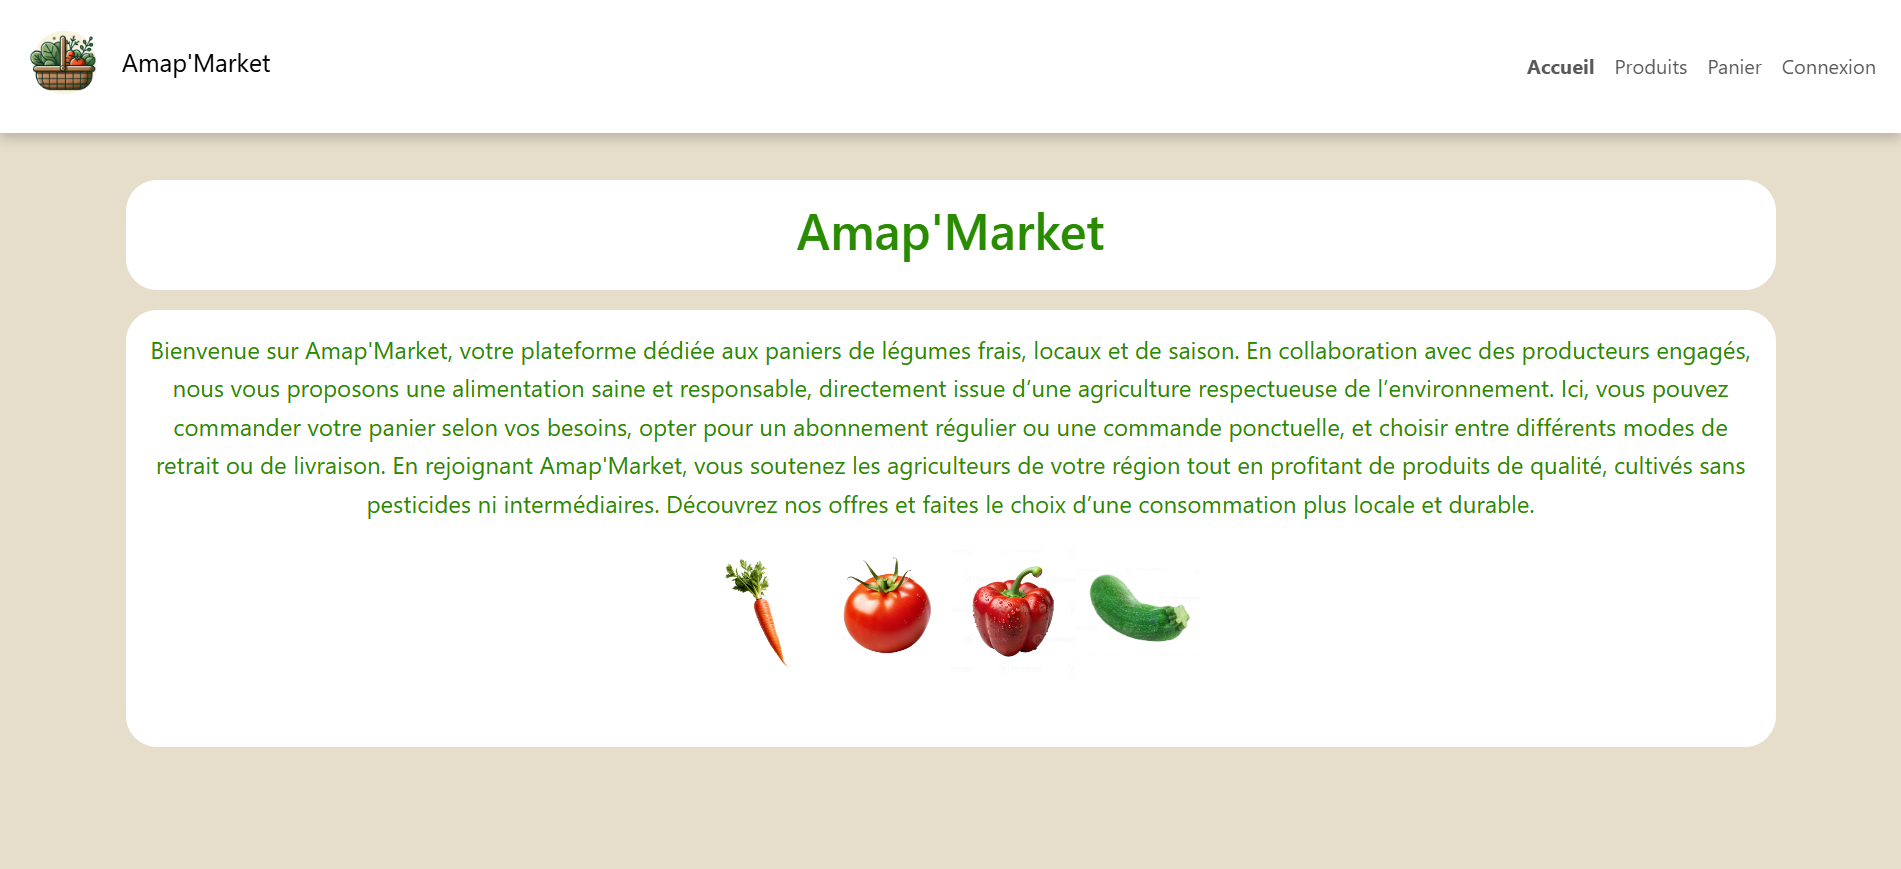
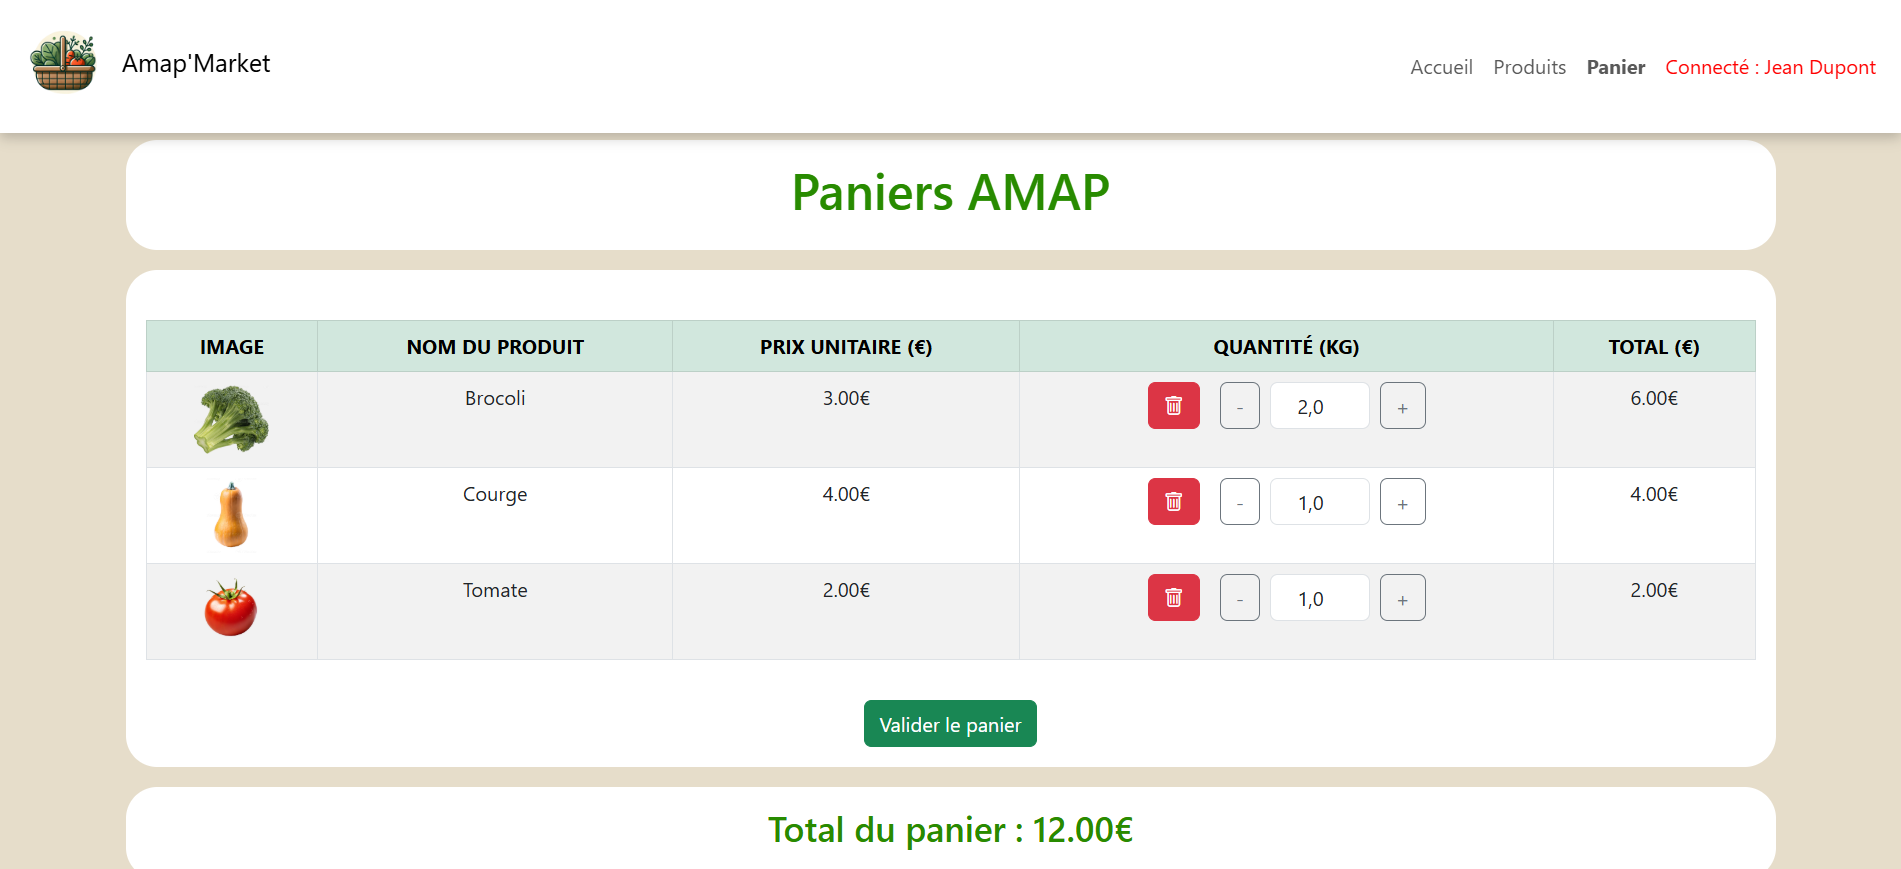
Update Certif

diff --git a/src/css/style.css b/src/css/style.css
@@ -614,7 +614,6 @@ header.sticky {
 
 .certification-content {
     flex-grow: 1;
-    margin-bottom: 20px;
 }
 
 .certification-content p {
@@ -649,12 +648,78 @@ header.sticky {
 }
 
 .certification-actions {
-    text-align: center;
+    margin-top: 20px;
+    display: flex;
+    justify-content: space-between;
+    align-items: center;
+    gap: 15px;
 }
 
-.btn-small {
+/* Container pour le code de vérification */
+.certification-code-container {
+    flex: 1;
+    min-width: 0; /* Permet au contenu de s'adapter */
+}
+
+.certification-code-label {
+    margin-bottom: 5px;
+    font-size: 0.85rem;
+    color: #666;
+    text-align: left;
+}
+
+.certification-code {
+    display: inline-flex;
+    align-items: center;
+    gap: 8px;
+    padding: 8px 12px;
+    background: #f5f5f5;
+    border: 1px solid #ddd;
+    border-radius: 6px;
+    cursor: pointer;
+    transition: all 0.3s ease;
+    font-family: monospace;
+    font-size: 0.9rem;
+    user-select: none;
+    white-space: nowrap;
+    overflow: hidden;
+    text-overflow: ellipsis;
+}
+
+.certification-code:hover {
+    background: #e8e8e8;
+    border-color: #4CAF50;
+    transform: translateY(-1px);
+}
+
+.certification-code:active {
+    transform: translateY(0);
+    background: #dff0d8;
+}
+
+.certification-code code {
+    font-weight: bold;
+    color: #333;
+    white-space: nowrap;
+    overflow: hidden;
+    text-overflow: ellipsis;
+}
+
+.certification-code .copy-icon {
+    font-size: 0.9rem;
+    opacity: 0.7;
+    flex-shrink: 0;
+}
+
+.certification-code:hover .copy-icon {
+    opacity: 1;
+}
+
+/* Bouton Voir le certificat */
+.certification-actions .btn-small {
     padding: 8px 20px;
     font-size: 0.9rem;
+    flex-shrink: 0;
 }
 
 /* Bouton désactivé */
@@ -674,7 +739,7 @@ header.sticky {
     box-shadow: none !important;
 }
 
-/* Responsive */
+/* Responsive pour la certification */
 @media (max-width: 768px) {
     .certifications-container {
         grid-template-columns: 1fr;
@@ -693,6 +758,34 @@ header.sticky {
     
     .certification-header h3 {
         font-size: 1.2rem;
+    }
+    
+    .certification-actions {
+        flex-direction: column;
+        gap: 10px;
+        align-items: stretch;
+    }
+    
+    .certification-code {
+        justify-content: center;
+        text-align: center;
+    }
+    
+    .certification-code-label {
+        text-align: center;
+    }
+}
+
+/* Pour les très petits écrans */
+@media (max-width: 480px) {
+    .certification-code {
+        padding: 6px 10px;
+        font-size: 0.85rem;
+    }
+    
+    .certification-actions .btn-small {
+        padding: 6px 16px;
+        font-size: 0.85rem;
     }
 }
 

diff --git a/index.html b/index.html
@@ -347,23 +347,32 @@
                             <img src="./src/img/logo-pix.png" alt="Certification PIX" style="width: 40px; height: 40px;">
                         </div>
                         <h3>PIX</h3>
-                        <span class="certification-level">En attente de résultats</span>
+                        <span class="certification-level">Obtenue</span>
                     </div>
                     <div class="certification-content">
-                        <p>Compétences numériques avec 5 niveaux de maîtrise</p>
+                        <p>Certification des compétences numériques avec 5 niveaux de maîtrise</p>
                         <div class="certification-details">
                             <div class="detail-item">
-                                <span class="detail-label">Niveau max:</span>
-                                <span class="detail-value">N/A</span>
+                                <span class="detail-label">Score:</span>
+                                <span class="detail-value">567/895</span>
                             </div>
                             <div class="detail-item">
-                                <span class="detail-label">Epreuve le:</span>
+                                <span class="detail-label">Obtenue le:</span>
                                 <span class="detail-value">9 Décembre 2025</span>
                             </div>
                         </div>
                     </div>
                     <div class="certification-actions">
-                        <a href="#certification" class="btn btn-small btn-disabled" disabled>Voir le certificat</a>
+                        <div class="certification-code-container">
+                            <p class="certification-code-label">
+                                <small>Code de vérification :</small>
+                            </p>
+                            <div class="certification-code" onclick="copyCodeToClipboard()" title="Cliquer pour copier">
+                                <code>P-6MVGVKDP</code>
+                                <span class="copy-icon">📋</span>
+                            </div>
+                        </div>
+                        <a href="https://app.pix.fr/verification-certificat" target="_blank" class="btn btn-small">Voir le certificat</a>
                     </div>
                 </div>
                 

diff --git a/src/js/script.js b/src/js/script.js
@@ -464,6 +464,50 @@ function adjustExperienceColumns() {
     }, 100);
 }
 
+// Fonction pour copier le code PIX dans le presse-papier
+function copyCodeToClipboard() {
+    const code = "P-6MVGVKDP";
+    
+    // Utiliser l'API Clipboard moderne
+    navigator.clipboard.writeText(code).then(() => {
+        // Afficher un feedback visuel
+        const codeElement = document.querySelector('.certification-code');
+        if (codeElement) {
+            const originalText = codeElement.innerHTML;
+            codeElement.innerHTML = '<code>Code copié !</code>';
+            codeElement.style.color = '#4CAF50';
+            
+            // Revenir à l'état initial après 2 secondes
+            setTimeout(() => {
+                codeElement.innerHTML = originalText;
+                codeElement.style.color = '';
+            }, 1500);
+        }
+    }).catch(err => {
+        console.error('Erreur lors de la copie : ', err);
+        // Fallback pour les anciens navigateurs
+        const textArea = document.createElement('textarea');
+        textArea.value = code;
+        document.body.appendChild(textArea);
+        textArea.select();
+        document.execCommand('copy');
+        document.body.removeChild(textArea);
+        
+        // Feedback même en cas d'erreur
+        const codeElement = document.querySelector('.certification-code');
+        if (codeElement) {
+            const originalText = codeElement.innerHTML;
+            codeElement.innerHTML = '<code>Code copié !</code>';
+            codeElement.style.color = '#4CAF50';
+            
+            setTimeout(() => {
+                codeElement.innerHTML = originalText;
+                codeElement.style.color = '';
+            }, 2000);
+        }
+    });
+}
+
 // Appeler la fonction
 window.addEventListener('load', adjustExperienceColumns);
 window.addEventListener('resize', adjustExperienceColumns);
